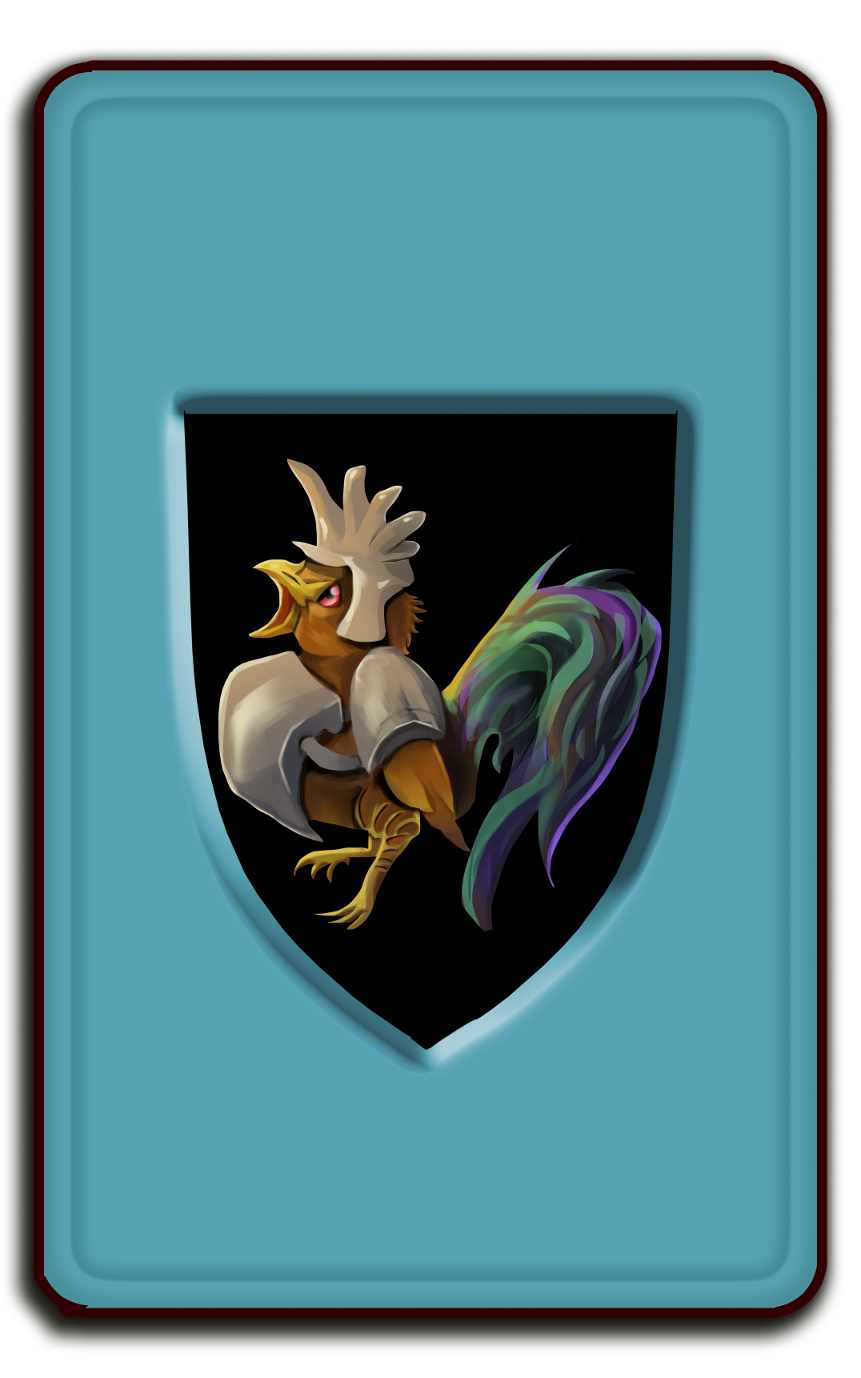
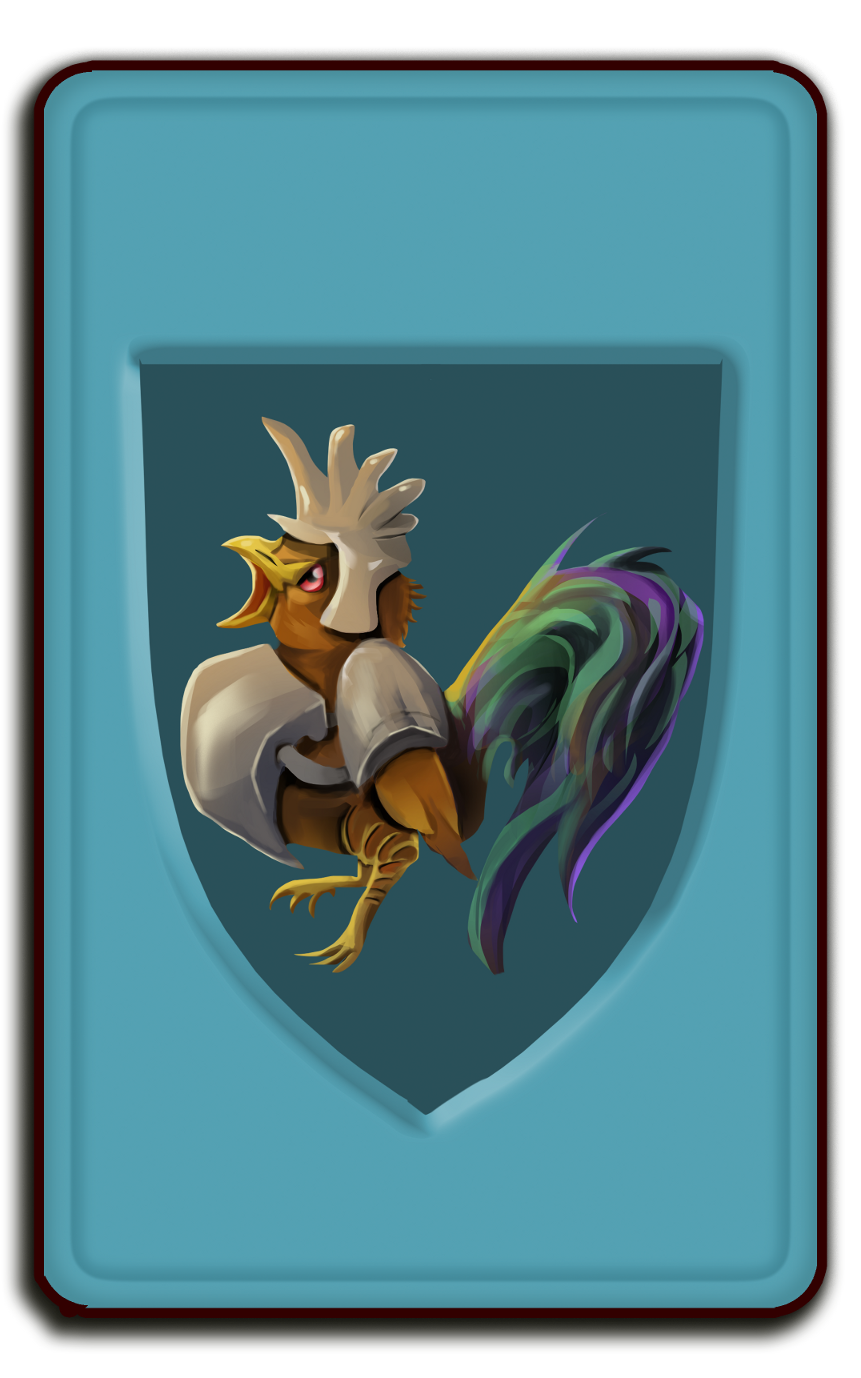
Added new images supplied by artist

Changed region(s): [[0.1208, 0.2496, 0.8757, 0.8425]]

diff --git a/js/default-state.js b/js/default-state.js
@@ -195,7 +195,7 @@ DefaultState.prototype.createDeck = function createDeck() {
       deck.push({
         color: i,
         number: j,
-        key: 'card' + i + '-' + (j > 4 ? 4 : j), //TODO: change this from -0 to -j
+        key: 'card' + i + '-' + (j > 7 ? 7 : j), //TODO: change this from -0 to -j
         orientation: 1,
       });
     }

diff --git a/js/main.js b/js/main.js
@@ -24,7 +24,7 @@ function main() {
 
       for (var i = 0; i < 4; i++) {
         for (var j = 0; j < 13; j++) {
-          if (j > 4)
+          if (j > 7)
             break; //debugging purposes, we only need to load the images we have made.
 
           game.load.image('card' + i + '-' + j, 'assets/card' + i + '-' + j + '.png');
